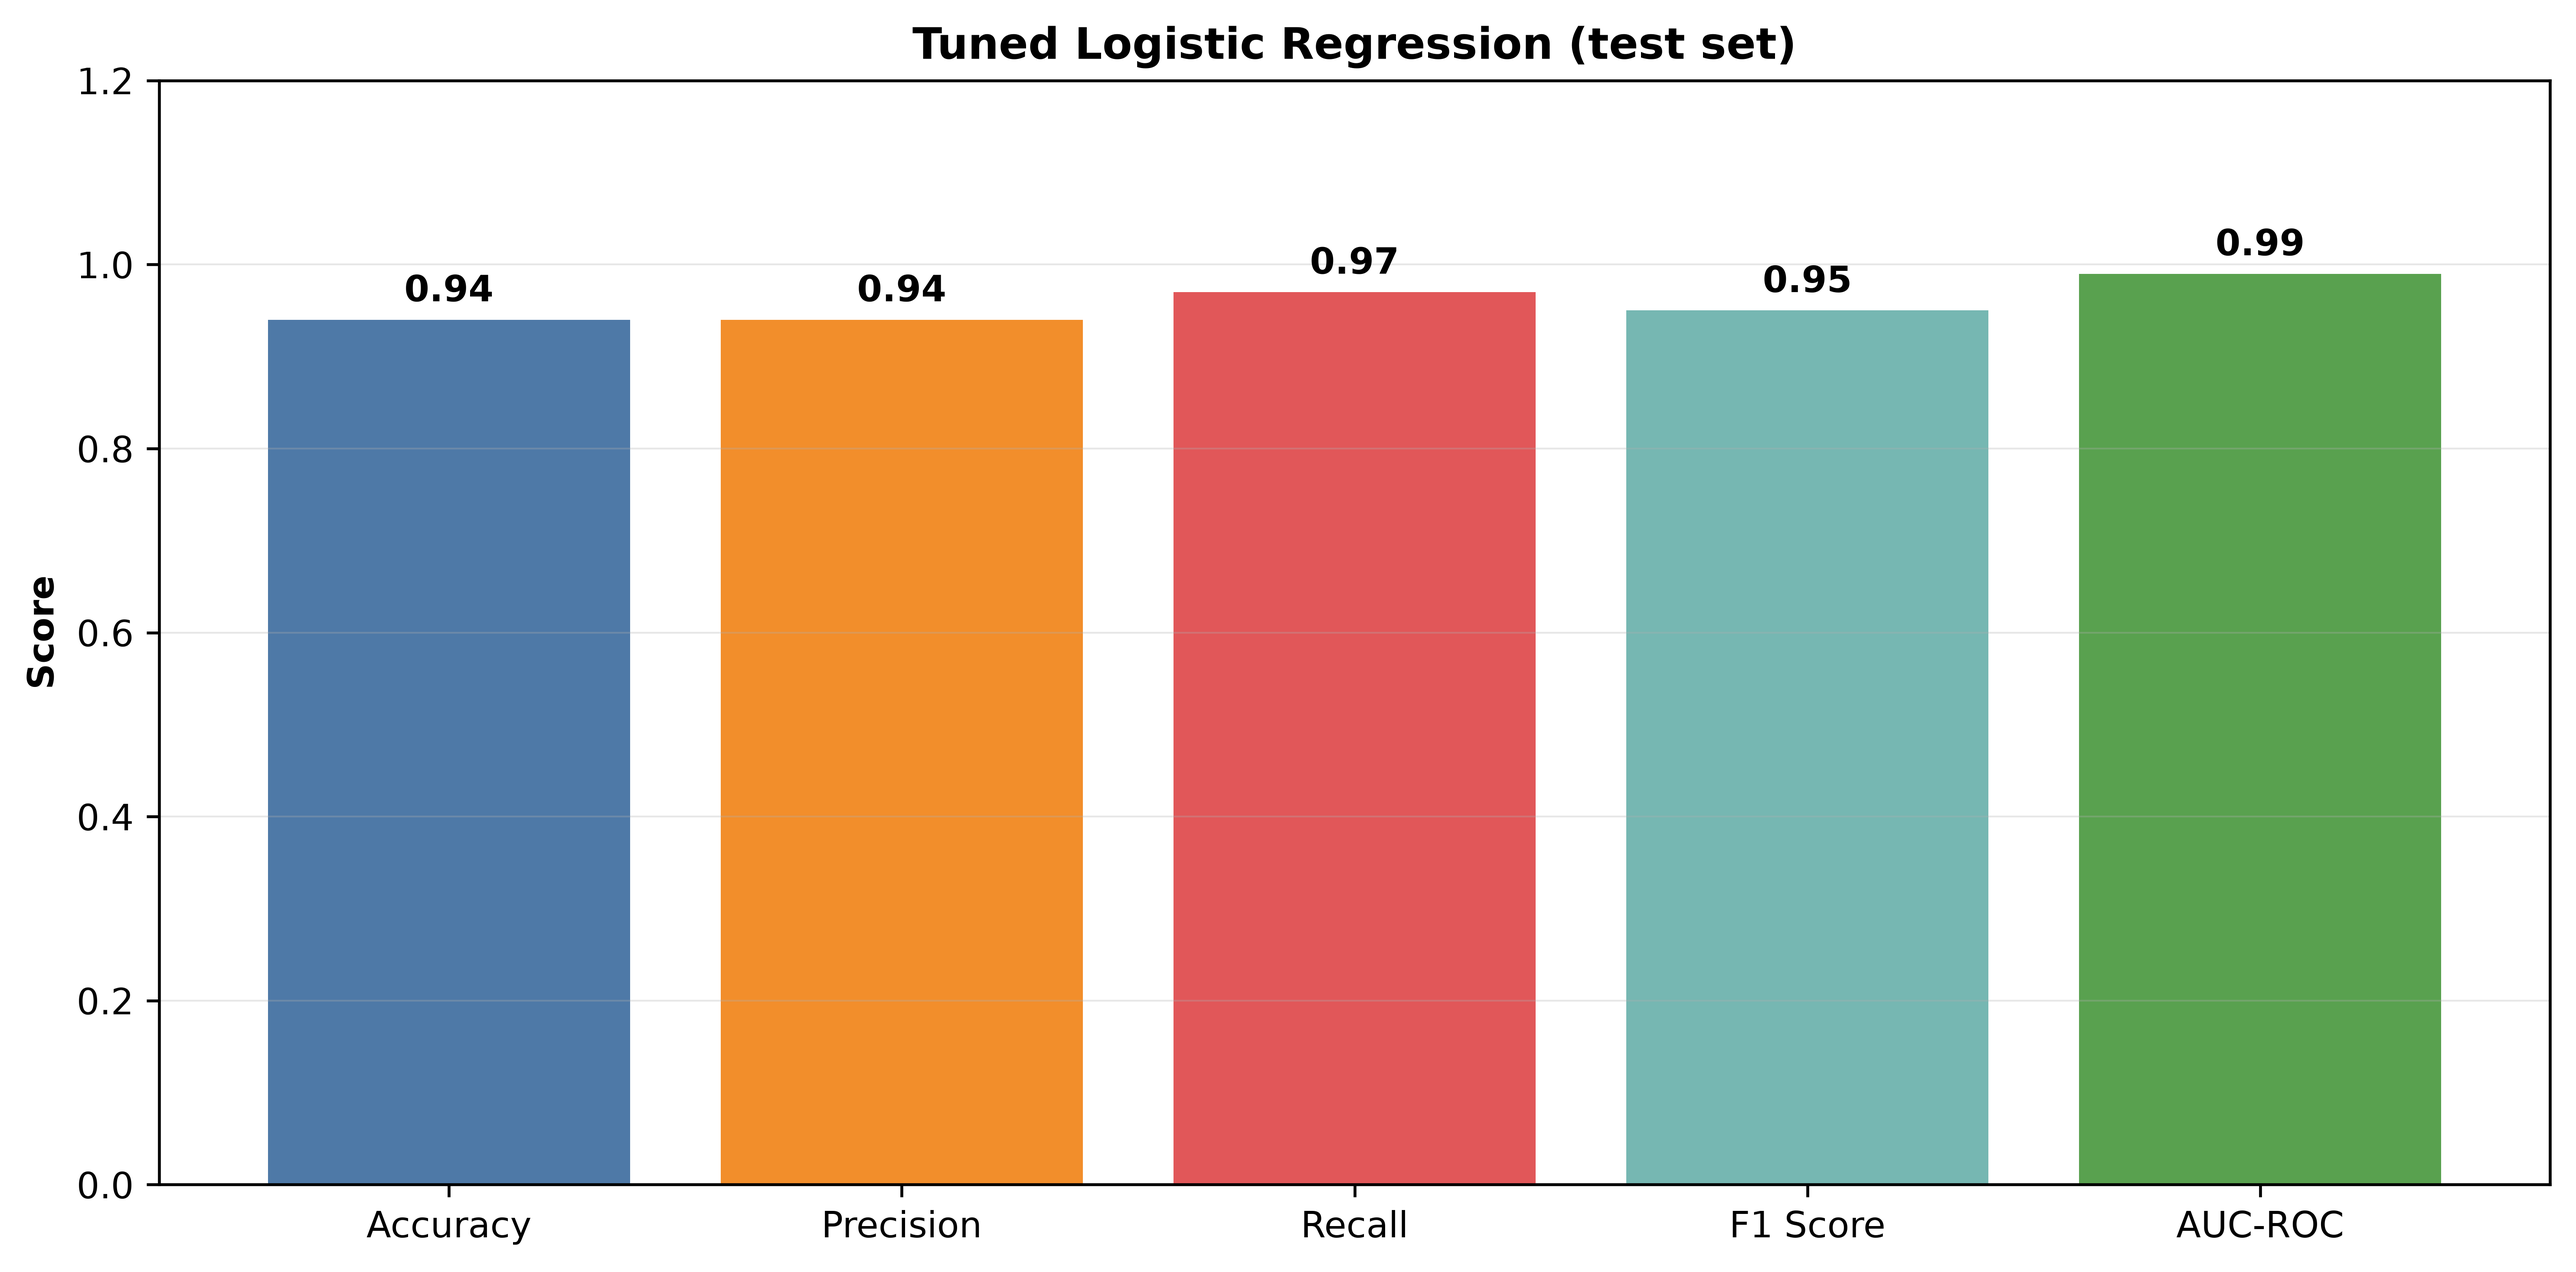
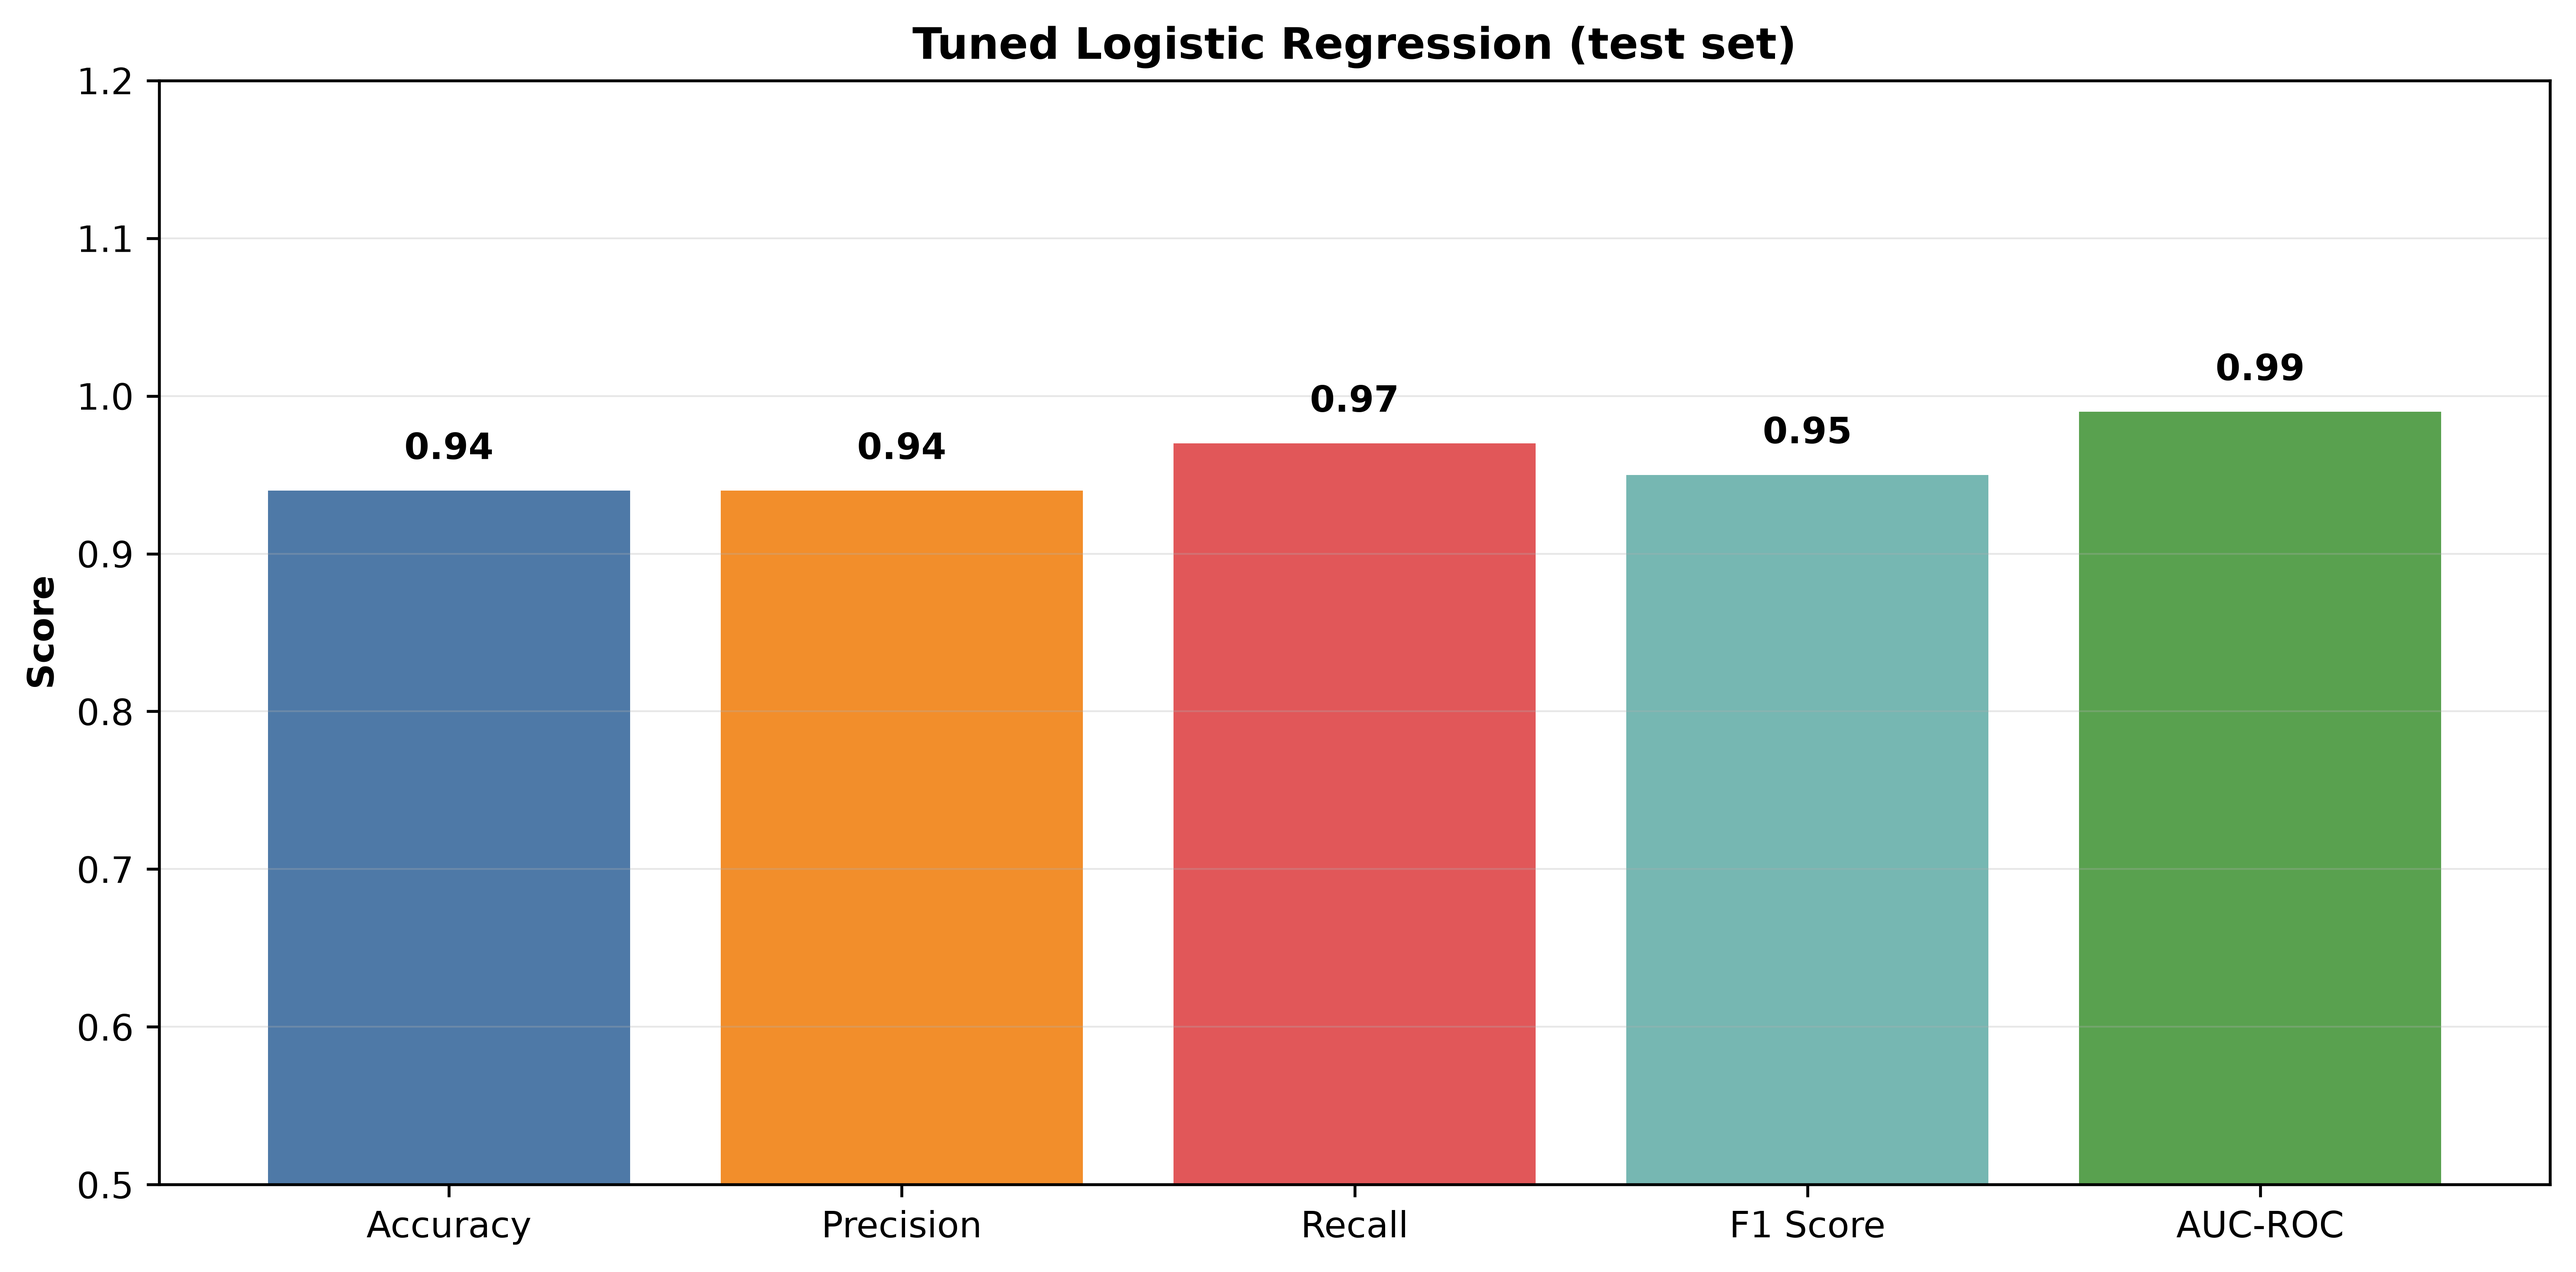
add smote justification in readme

diff --git a/README.md b/README.md
@@ -41,6 +41,7 @@ Notebook: `01_classification_eda.ipynb`
 - About 3,000 orders, 12 features plus the target
 - No missing values and no duplicate rows
 - Class balance: 64.5% returned, 35.5% kept. This is mild imbalance. A model that always says "returned" would get 64.5% accuracy, so that is the number any model has to beat.
+- Imbalance handling: not needed. The split is mild, and class_weight="balanced" was tested in the grid search but not selected. SMOTE was not used.
 - Checked data types, descriptive statistics, distributions, box plots for outliers, and a correlation heatmap of the numeric columns.
 - Checked for negative values in the numeric columns.
 
